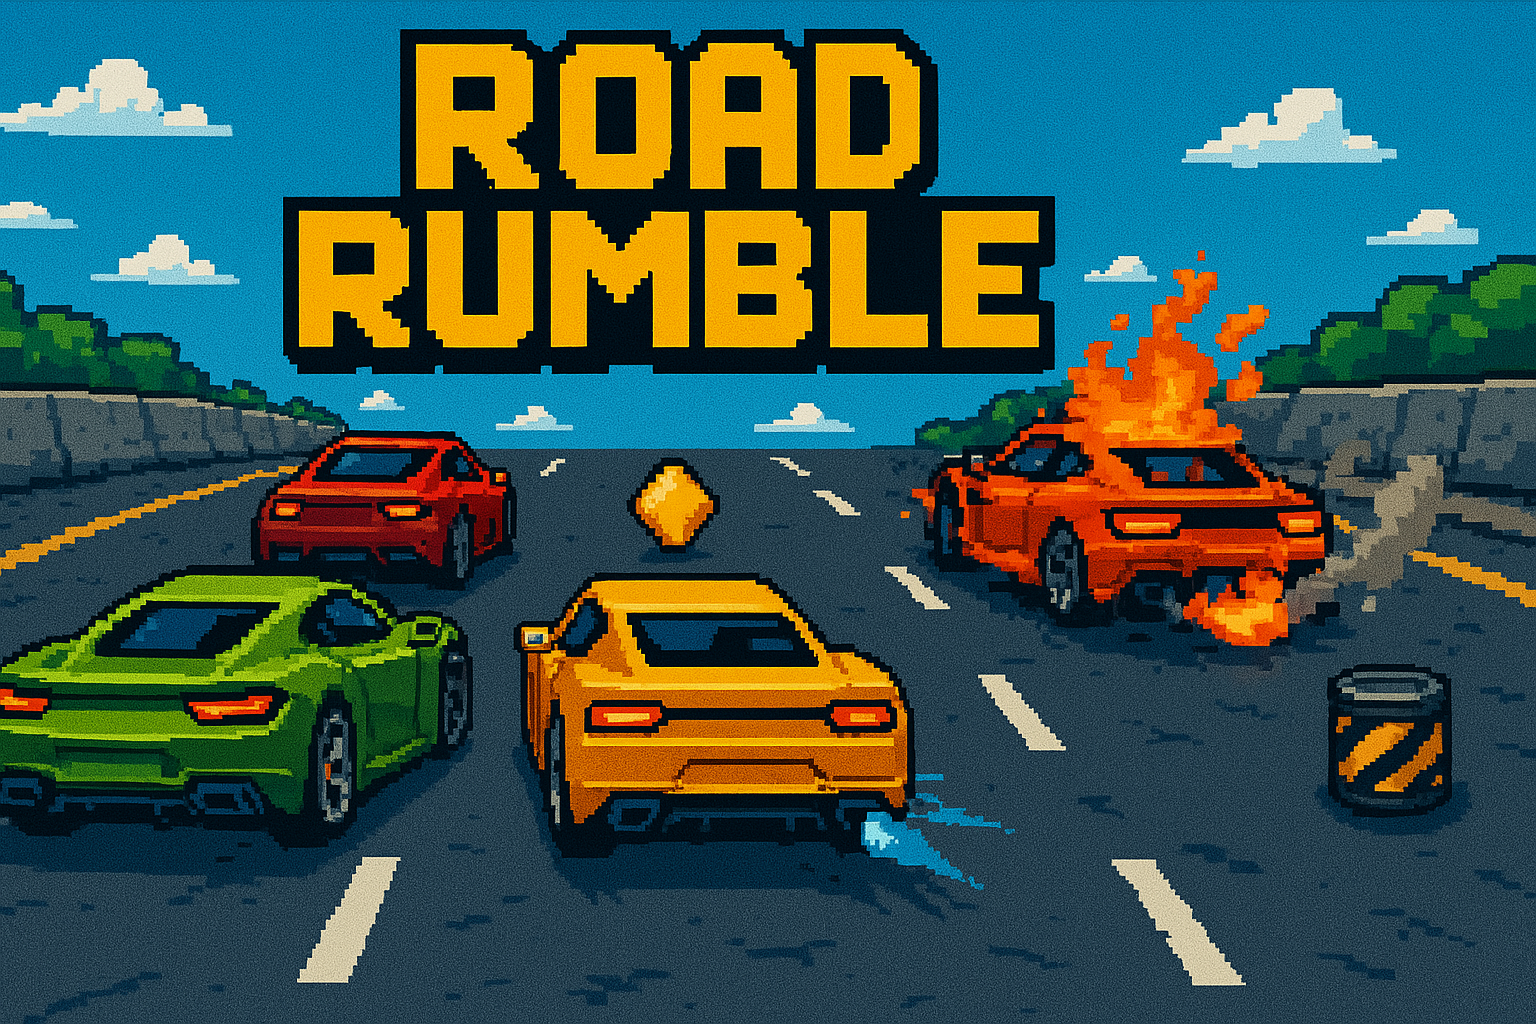
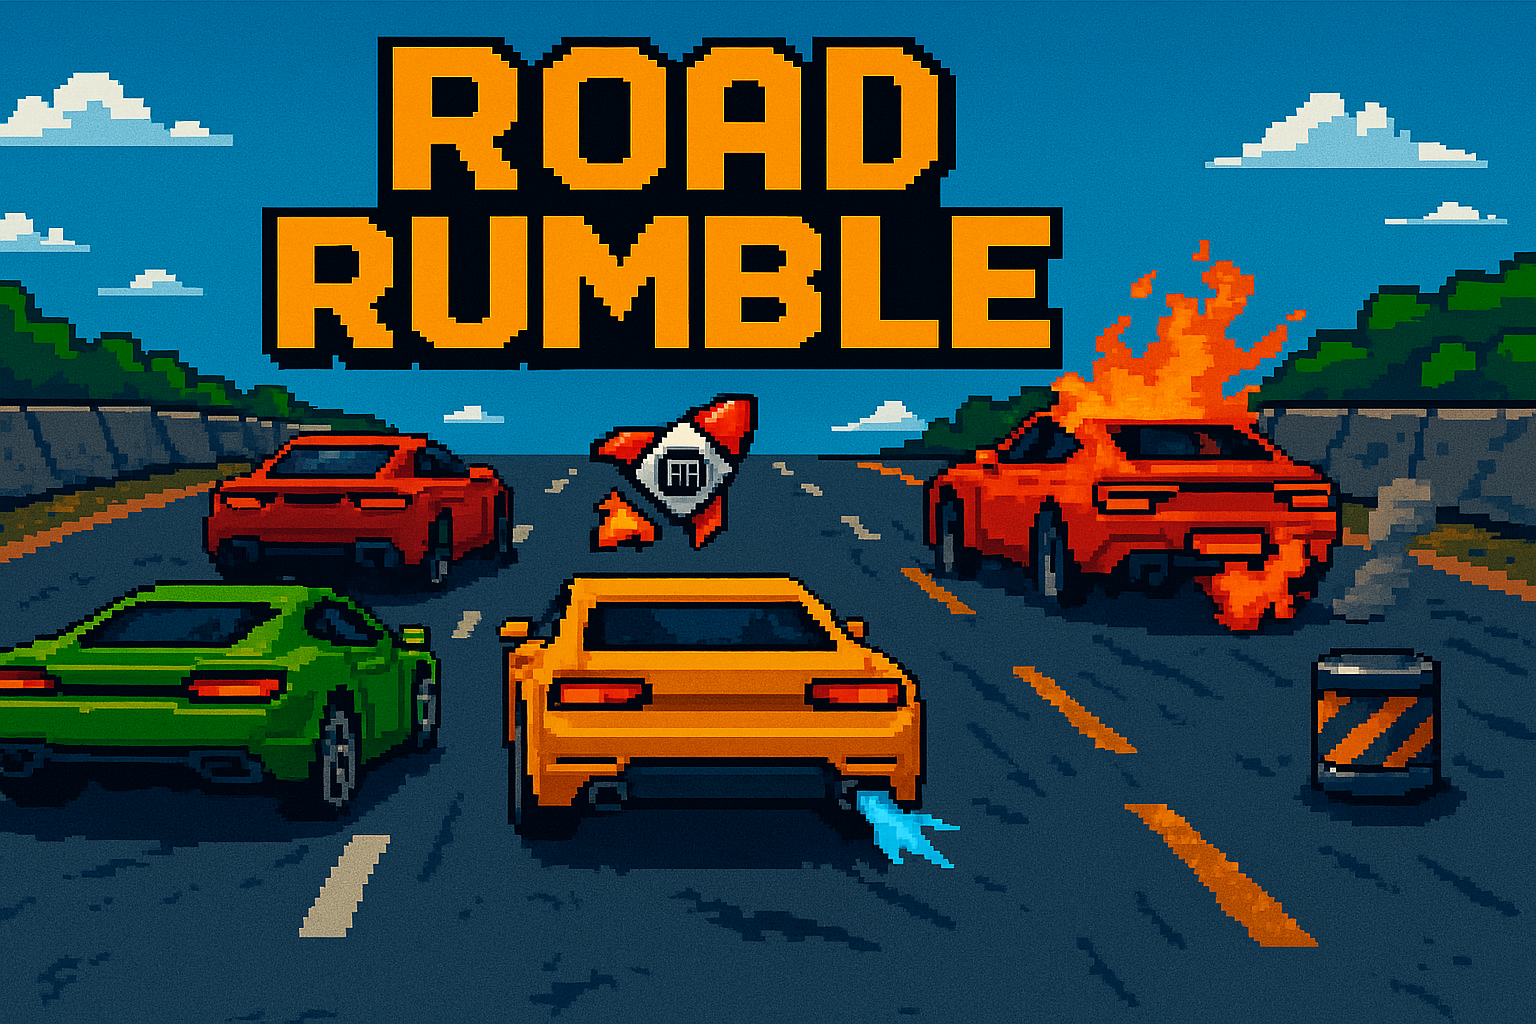
har fixat lite huvud menyn utseendet

diff --git a/source/resources.c b/source/resources.c
@@ -20,6 +20,70 @@ bool loadResources(GameResources *pRes)
         printf("Failed to create background texture: %s\n", SDL_GetError());
         return false;
     }
+    // ladda "start game" bild 
+    SDL_Surface *pStartSurface = IMG_Load("resources/images/start.png");
+    if (!pStartSurface) {
+        printf("Failed to load start button image: %s\n", IMG_GetError());
+        return false;
+    }
+    //omvandla textur och hantera fel...
+    pRes->pStartTexture = SDL_CreateTextureFromSurface(pRes->pRenderer, pStartSurface);
+    SDL_FreeSurface(pStartSurface);
+    if (!pRes->pStartTexture) {
+        printf("Failed to create start button texture: %s\n", SDL_GetError());
+        return false;
+    }
+    // ladda "Multiplayer" bild
+    SDL_Surface *pMultiSurface = IMG_Load("resources/images/multiplayer.png");
+    if (!pMultiSurface)
+    {
+        printf("Failed to load multiplayer image: %s\n", IMG_GetError());
+        return false;
+    }
+    //omvandla textur och hantera fel...
+    pRes->pMultiplayerTexture =  SDL_CreateTextureFromSurface(pRes->pRenderer,pMultiSurface);
+    SDL_FreeSurface(pMultiSurface);
+    if (!pRes->pMultiplayerTexture) {
+        printf("Failed to create multiplayer button texture: %s\n", SDL_GetError());
+        return false;
+    }
+    // ladda "Options" bild
+    SDL_Surface *pOptionsSurface = IMG_Load("resources/images/options.png");;
+    if (!pOptionsSurface)
+    {
+        printf("Failed to load option image: %s\n", IMG_GetError());
+        return false;    
+    }
+    // omvandla textur och hantera fel...
+    pRes->pOptionsTexture = SDL_CreateTextureFromSurface(pRes->pRenderer,pOptionsSurface);
+    SDL_FreeSurface(pOptionsSurface);
+    if (!pRes->pOptionsTexture) {
+        printf("Failed to create multiplayer button texture: %s\n", SDL_GetError());
+        return false;
+    }
+    // ladda "Exit" image...
+    SDL_Surface *pExitSurface = IMG_Load("resources/images/exit.png");
+    if (!pExitSurface)
+    {
+        printf("Failed to load exit button image: %s\n", IMG_GetError());
+        return false;
+    }
+    // omvandla textur och hantera fel...
+    pRes->pExitTexture = SDL_CreateTextureFromSurface(pRes->pRenderer,pExitSurface);
+    SDL_FreeSurface(pExitSurface);
+
+    if (!pRes->pExitTexture)
+    {
+        printf("Failed to create exit button texture: %s\n",SDL_GetError());
+        return false;
+    }
+    
+    //bredd x höjd "Start,Multi...."
+    pRes->startRect       = (SDL_Rect){830, 505, 340, 60};
+    pRes->multiplayerRect = (SDL_Rect){830, 585, 340, 60};
+    pRes->optionsRect     = (SDL_Rect){830, 665, 180, 60};
+    pRes->exitRect        = (SDL_Rect){1015, 665, 160, 60};
+    
     // ladda musiken och hantera fel.
     pRes->pBgMusic = Mix_LoadMUS("resources/music/intro_Opening.mp3");
     if (!pRes->pBgMusic)
@@ -38,7 +102,7 @@ bool loadResources(GameResources *pRes)
         return false;
     }
     // desgina texten (färgen)
-    SDL_Color green = {0, 255, 0};
+    /*SDL_Color green = {0, 255, 0};
     SDL_Color red = {255, 0, 0};
     SDL_Surface *pStartSurf = TTF_RenderText_Solid(pRes->pFont, "Start Game", green);
     SDL_Surface *pExitSurf = TTF_RenderText_Solid(pRes->pFont, "Quit Game", red);
@@ -64,7 +128,7 @@ bool loadResources(GameResources *pRes)
     {
         printf("Failed to create button textures: %s\n", SDL_GetError());
         return false;
-    }
+    }*/
 
     // 💡 Laddar tileset-bild också:
     SDL_Surface *surface = IMG_Load("resources/images/tileset.png");

diff --git a/source/game.c b/source/game.c
@@ -10,6 +10,8 @@
 typedef enum
 {
     MENU,
+    OPTIONS,
+    MULTIPLAYER,
     PLAYING
 } GameMode;
 
@@ -56,6 +58,15 @@ void gameLoop(GameResources *pRes)
                     SDL_Log("Avslutar spelet!");
                     isRunning = false;
                 }
+                if (SDL_PointInRect(&(SDL_Point){x,y}, &pRes->multiplayerRect)) {
+                    SDL_Log("MULTIPLAYER");
+                    mode = MULTIPLAYER;  // Or handle however you like
+                }
+                if (SDL_PointInRect(&(SDL_Point){x,y}, &pRes->optionsRect)) {
+                    SDL_Log("OPTIONS clicked");
+                    mode = OPTIONS;  // Or handle however you like
+                }
+
             }
 
             // Byt mode via tangent
@@ -83,6 +94,8 @@ void gameLoop(GameResources *pRes)
             SDL_RenderCopy(pRes->pRenderer, pRes->pBackgroundTexture, NULL, NULL);
             SDL_RenderCopy(pRes->pRenderer, pRes->pStartTexture, NULL, &pRes->startRect);
             SDL_RenderCopy(pRes->pRenderer, pRes->pExitTexture, NULL, &pRes->exitRect);
+            SDL_RenderCopy(pRes->pRenderer, pRes->pMultiplayerTexture, NULL, &pRes->multiplayerRect);
+            SDL_RenderCopy(pRes->pRenderer, pRes->pOptionsTexture, NULL, &pRes->optionsRect);
         }
         else if (mode == PLAYING)
         {

diff --git a/include/game.h b/include/game.h
@@ -19,11 +19,15 @@ typedef struct
     SDL_Renderer *pRenderer;         // Renderare
     SDL_Texture *pBackgroundTexture; // Bakgrundsbild
     SDL_Texture *pStartTexture;      // "Start Game"-textur
+    SDL_Texture *pMultiplayerTexture;// "Multiplayer"-textur
+    SDL_Texture *pOptionsTexture;    // "Options"-textur 
     SDL_Texture *pExitTexture;       // "Quit Game"-textur
     TTF_Font *pFont;                 // Typsnitt
     Mix_Music *pBgMusic;             // Bakgrundsmusik
     SDL_Rect startRect;              // Rektangel för startknappen
     SDL_Rect exitRect;               // Rektangel för avsluta-knappen
+    SDL_Rect multiplayerRect;        // Rektangel för multispelare-knappen
+    SDL_Rect optionsRect;            // Rektangel för inställning-knappen
     SDL_Texture *ptilesetTexture;    // Innehåller hela Tileseten
 } GameResources;
 

diff --git a/source/main.c b/source/main.c
@@ -30,6 +30,9 @@ int main(int argc, char **argv)
         return 1;
     }
 
+    printf("Resources loaded successfully!\n");
+
+
     gameLoop(&res); // Starta huvudloopen för spelet
     cleanup(&res);  // Rensa och avsluta
     return 0;
